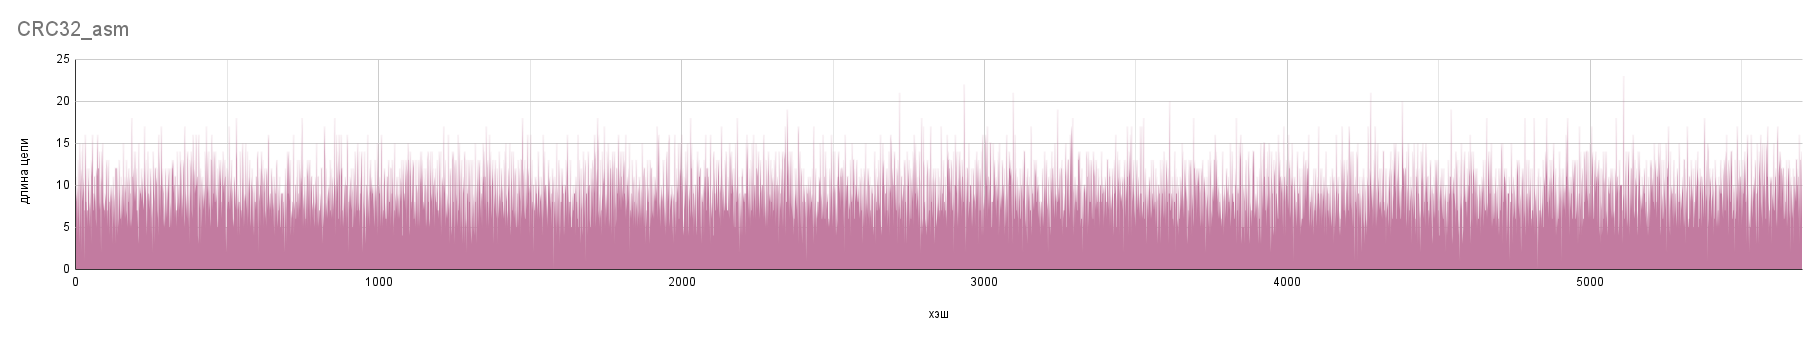
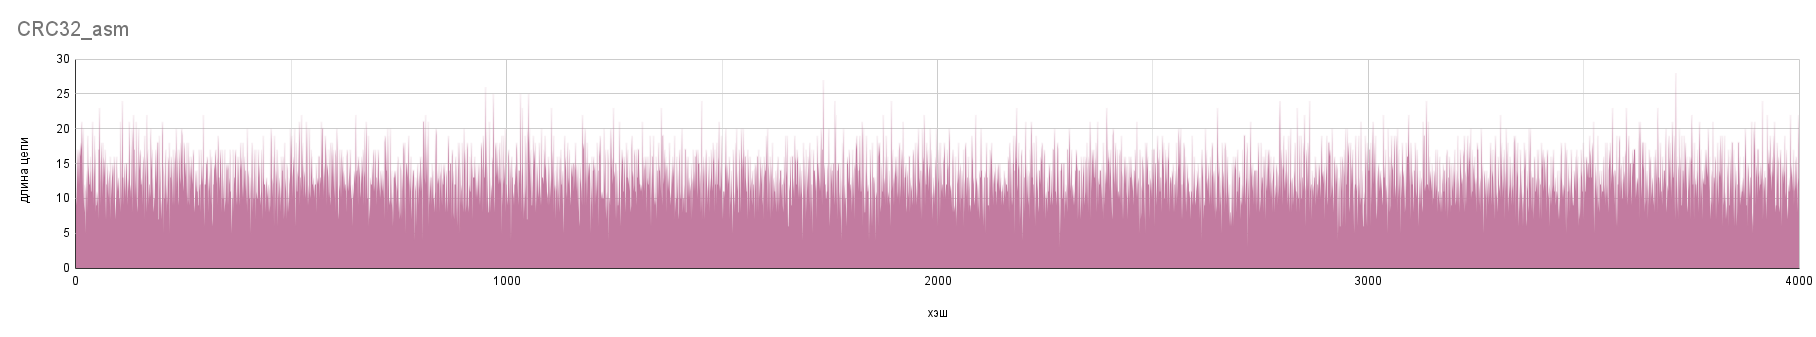
remake hash func images

diff --git a/README.md b/README.md
@@ -25,28 +25,25 @@ typedef const char   *hash_key;
 typedef       char   *hash_t  ;
 ```
 ## Часть 1. Исследование хэш-функций
-Ниже будут представлены различные хэш-функции и их анализ. Измерения проводились при объеме базы в ~50000 слов и хэш-таблице емкостью 5701.
+Ниже будут представлены различные хэш-функции и их анализ. Измерения проводились при объеме базы в ~50000 слов и хэш-таблице емкостью 4001 (простое число).
 
 **TRIVIAL**
 
 $hash(\forall key) = 1$
 
-![trivial     ](data/trivial.png)
-![trivial_smal](data/trivial_small.png)
+![trivial](data/trivial.png)
 
 **FIRST CHAR**
 
 $hash(key) = key[0]$
 
-![first_char      ](data/first_char.png)
-![first_char_small](data/first_char_small.png)
+![first_char](data/first_char.png)
 
 **LENGTH**
 
 $hash(key) = strlen(key)$
 
-![length      ](data/length.png)
-![length_small](data/length_small.png)
+![length](data/length.png)
 
 **SUM CHAR**
 
